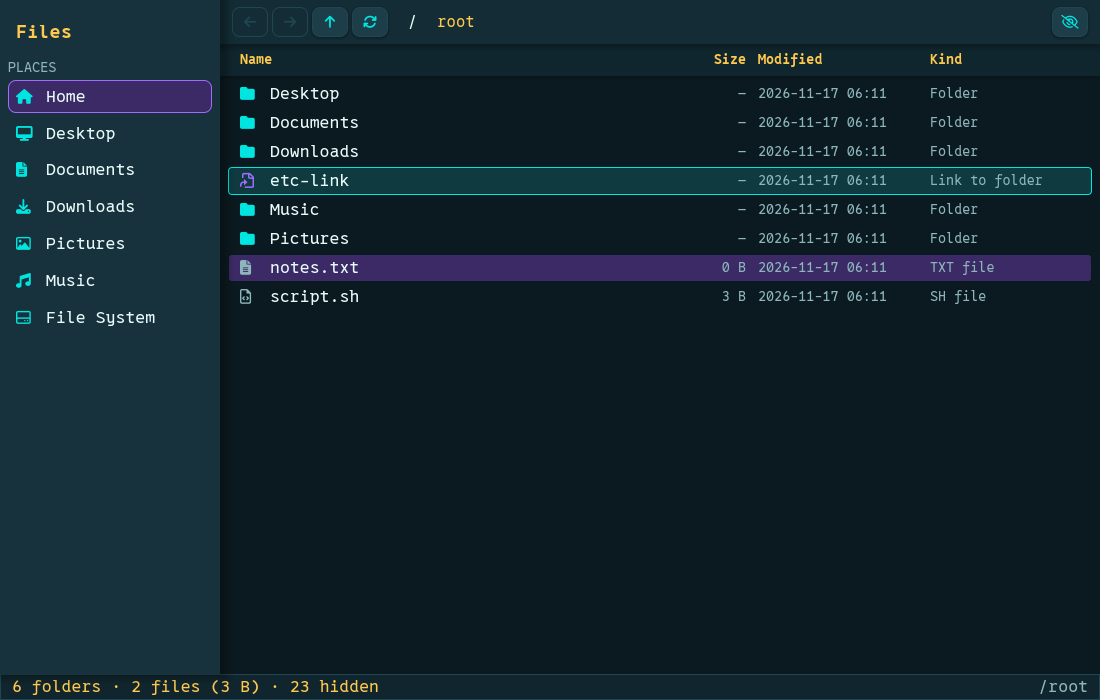
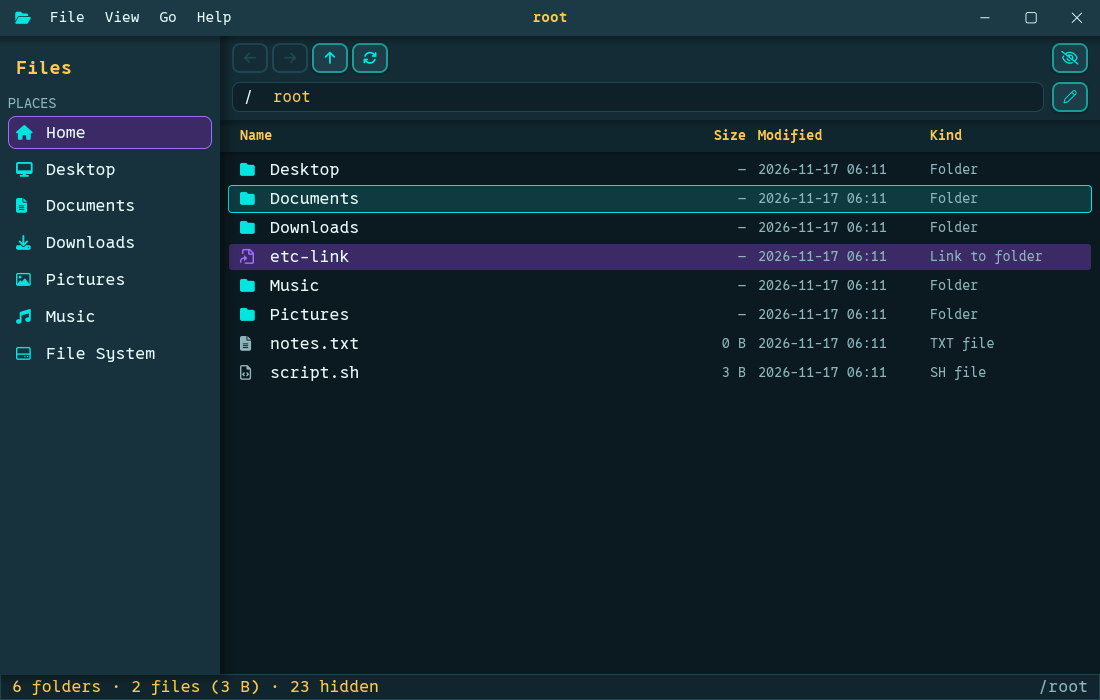
Custom window chrome, menus, location input, bordered buttons, styled iced tooltips
- All six apps: client-side title bar with File/View/Go/Help menus,
  minimise/maximise/close, drag/double-click/edge resize, About dialog
- Location row below the action buttons with typed-path navigation
  (~, relative, ..), Ctrl+L / Ctrl+Q / Alt+Home shortcuts
- 2px state-coloured tool-button borders
- iced tooltips styled like the other apps
- docs/CHROME.md comparing effort and pitfalls per stack; new screenshots

Claude-Session: https://claude.ai/code/session_01EotqUKJZL1HdZyLKc8DN6J

diff --git a/apps/rust-iced/src/app.rs b/apps/rust-iced/src/app.rs
@@ -78,7 +78,7 @@ impl App {
     pub fn view(&self) -> Element<'_, Message> {
         let mut layers = stack![
             column![space().height(layout::TITLE_BAR_HEIGHT), self.browser.view().map(Message::Browser)],
-            chrome::title_bar(&self.chrome, self.title()).map(Message::Chrome),
+            chrome::title_bar(&self.chrome, self.browser.title()).map(Message::Chrome),
         ];
         if let Some(menu) = chrome::menu_overlay(&self.chrome, self.browser.menu_state()) {
             layers = layers.push(menu.map(Message::Chrome));

diff --git a/docs/CHROME.md b/docs/CHROME.md
@@ -1,0 +1,121 @@
+# Window chrome, menus and text input: what it took in each stack
+
+This round added four things to all six apps:
+
+1. **2px tool-button borders**, coloured by state (`#1A9C98` normal, purple
+   hover, aqua pressed, dim disabled).
+2. **Client-side decorations (CSD)**: the system title bar is gone. Each app
+   draws its own title bar with **File / View / Go / Help** menus, the current
+   folder as title, and **minimise / maximise / close**. Drag the empty area to
+   move, double-click it to maximise, and grab any window edge to resize. Plus
+   an **About** dialog.
+3. **Location row**: the breadcrumbs moved under the action buttons, inside an
+   inset field. Click the field, press the pencil button or **Ctrl+L** to type a
+   path. `~`, relative paths and `..` work, **Enter** navigates and **Esc**
+   cancels.
+4. **iced tooltips** now render as styled bubbles (iced's default tooltip is
+   bare floating text; it needs `.style()`, `.padding()` and `.gap()`).
+
+New shortcuts everywhere: **Ctrl+L** open location, **Ctrl+Q** quit,
+**Alt+Home** home. Menus, tokens and path resolution are shared in spirit:
+`DirectoryPath::resolve_user_input` exists in each core with the same test
+cases.
+
+![Menus side by side](screenshots/menus.png)
+![Typing a path](screenshots/location-input.png)
+
+## How each stack did it
+
+| | Window move / resize | Menus | Text input | Code touched* |
+|---|---|---|---|---|
+| **Flutter** | GTK runner: `gtk_window_set_decorated(FALSE)` plus a ~100-line native method channel (`gtk_window_begin_move_drag` / `begin_resize_drag`) | ✅ built in: `MenuBar`, `SubmenuButton`, `MenuItemButton`, `CheckboxMenuButton`, with shortcut labels | ✅ `TextField` | +897 −45 Dart (inflated by `dart format`), +102 C |
+| **iced** | ✅ `.decorations(false)` + `window::drag`, `drag_resize`, `toggle_maximize` tasks (winit → compositor) | ❌ hand-built: `stack!` + `pin` + `opaque` overlay, with a click-catcher to close | ✅ `text_input` (+ `operation::focus` / `select_all`) | +735 −55 |
+| **Dear ImGui** | ⚠ GLFW can't hand a move/resize to the WM, so it's manual (position/size from pointer deltas) | ✅ built in: `BeginMenuBar`, `BeginMenu`, `MenuItem` (shortcut text, checkmarks) | ✅ `InputText` + `imgui_stdlib` | +704 −37 |
+| **egui** | ✅ `with_decorations(false)` + `ViewportCommand::StartDrag` / `BeginResize` (winit → compositor) | ✅ built in: `MenuBar`, `menu_button`, `Button::shortcut_text`, `Modal` | ✅ `TextEdit` | +503 −67 (the smallest) |
+| **Slint** | ✅ `no-frame: true` + Slint's window API; move/resize via the `unstable-winit-030` accessor (`drag_window`, `drag_resize_window`) | ⚠ `PopupWindow` + a data model (`[MenuEntry]`) | ✅ `TextInput` | +640 −57 |
+| **Zig + Clay** | ⚠ manual, like ImGui (raylib sits on GLFW), plus raw GLFW calls | ❌ hand-built: Clay floating elements, hover/click logic, outside-click closing | ❌ **hand-written**: `TextField.zig` (UTF-8 caret, select-all, backspace/delete, arrows, Home/End, paste, unit-tested); the caret is placed with the renderer's font metrics | +950 −34 |
+
+\* `git diff --numstat` for this round, app code only. The Rust apps also
+share +175 lines in `fm-core` / `fm-ui-kit` (menu model, tokens, path
+resolution).
+
+### Pitfalls found along the way
+
+- **Flutter**:
+  - `window_manager` 0.7 now depends on an external C++ library fetched at
+    build time, so a small native channel in the runner was the leaner
+    choice.
+  - Shortcuts closest to focus win: our screen-level Backspace / arrows /
+    Enter bindings would have stolen keys from the `TextField`. Disabling
+    those actions while typing lets the keys fall through.
+  - `MenuStyle.minimumSize` from the theme only applies to the menu bar;
+    dropdown items need their own width.
+- **iced**:
+  - There is no menu widget, so menus are overlays positioned with `pin`
+    (0xProto being monospaced makes the dropdown x-offsets computable).
+  - The modal backdrop must be `opaque`, or widgets underneath keep
+    receiving hover and their tooltips show through the dialog.
+  - `keyboard::listen` only reports unhandled keys. That's perfect for not
+    triggering shortcuts while typing, but Escape inside the text input
+    needed `event::listen_with`.
+- **Dear ImGui**:
+  - Dropdowns inherit the style active when they open (zero padding leaked
+    in).
+  - Shortcut hints use `TextDisabled`.
+  - With keyboard nav off, Escape doesn't close menus without
+    `ClosePopupsExceptModals` (internal API).
+  - In 1.92.8, `AddRect`'s `thickness`/`flags` parameters swapped order.
+- **egui**:
+  - `consume_key` runs before widgets, so shortcuts must skip keys that
+    `TextEdit` needs while typing.
+  - `scope_builder` advances the parent cursor but `new_child` doesn't,
+    which matters for overlaying crumbs on a clickable field.
+- **Slint**:
+  - **After `drag_window()` the window manager swallows the button release**,
+    so Slint's pressed `TouchArea` kept its pointer grab and every later
+    click started another drag. The fix is a *deferred* (next event-loop
+    turn) synthetic `PointerReleased` + `PointerExited`.
+  - `@children` can't be forwarded into a `PopupWindow`, hence data-driven
+    menus.
+  - Text clips Nerd Font glyphs again on the window controls.
+- **Zig + Clay**:
+  - Everything a toolkit normally provides had to be written:
+    - menu open/close/hover-switch logic
+    - outside-click handling
+    - modal backdrop
+    - the text field and its blinking caret
+  - raylib caches window-relative pointer coordinates, so a manual window
+    move overshot and compounded; the fix queries the embedded GLFW directly.
+  - There is still no IME/composition, no click-to-place caret and no
+    drag-to-select.
+
+### What this means for a desktop shell on sway
+
+- **Interactive move/resize must be compositor-driven on Wayland**
+  (`xdg_toplevel.move` / `.resize`). Clients can't position their own
+  windows there.
+  - winit (iced, egui, Slint) and GTK (Flutter) do this, so their CSD works on
+    sway.
+  - The manual approach used by **Dear ImGui and Zig/raylib only works on
+    X11**. GLFW has no API for a compositor-driven move, so on Wayland those
+    two would need their own Wayland client code.
+- **In a tiling compositor, CSD title bars mostly matter for floating
+  windows.** For tiled windows you'd likely want server-side decorations via
+  `xdg-decoration`, or none, with menus living elsewhere. Worth deciding at
+  the DE level before investing heavily in per-app title bars.
+- **Built-in widgets matter more than raw rendering here.**
+  - Menus, modal dialogs and text input were free in Flutter, egui and Dear
+    ImGui, mostly free in Slint, partly hand-built in iced, and entirely
+    hand-built in Clay.
+  - Text input is the expensive one: a production text field also needs
+    IME, selection, clipboard, undo and accessibility. A toolkit that ships
+    one saves the most.
+
+## Verifying it
+
+The window operations were checked under the Openbox window manager
+(Xvfb has none, and move/maximise/resize are requests *to* a window manager).
+All six passed the same scripted sequence: drag the title bar, maximise,
+restore, resize from the bottom-right corner, close with ✕. The menus, a
+tooltip, typing `~/Documents` + Enter, and the About dialog were exercised in
+each app.

diff --git a/README.md b/README.md
@@ -29,6 +29,7 @@ filemanage/
 ├── docs/
 │   ├── ARCHITECTURE.md       shared feature scope, layers, MVVM-per-paradigm, palette roles
 │   ├── ELEVATION.md          depth/elevation change: cost and approach per stack
+│   ├── CHROME.md             custom title bar, menus, location input: cost and pitfalls per stack
 │   └── screenshots/
 ├── libs/rust/
 │   ├── fm-core/              shared Rust domain + use cases + filesystem adapters
@@ -42,7 +43,10 @@ filemanage/
 Every app has its own README with its folder structure and stack-specific
 notes. [docs/ARCHITECTURE.md](docs/ARCHITECTURE.md) explains the shared design.
 [docs/ELEVATION.md](docs/ELEVATION.md) compares what it took to add depth
-(elevation, shadows) to each stack.
+(elevation, shadows) to each stack. [docs/CHROME.md](docs/CHROME.md) compares
+client-side decorations (custom title bar, menus, window controls), the
+editable location bar and text input, including what each approach means on
+Wayland/sway.
 
 ## Build & run
 
@@ -62,8 +66,8 @@ Rust apps on X11/Wayland also need the usual `libxkbcommon-x11-0` /
 
 | App | Lint / format | Tests |
 |---|---|---|
-| Rust (all) | `cargo clippy --workspace --all-targets` (pedantic, zero warnings), `cargo fmt` | `cargo test --workspace` → 22 tests (core, kit, iced update/keys, egui view model, Slint presenter) |
-| Flutter | `flutter analyze` (strict casts/inference + extra lints, zero issues), `dart format` | `flutter test` → 14 tests (domain, view model with fakes, widget) |
+| Rust (all) | `cargo clippy --workspace --all-targets` (pedantic, zero warnings), `cargo fmt` | `cargo test --workspace` → 23 tests (core, kit, iced update/keys, egui view model, Slint presenter) |
+| Flutter | `flutter analyze` (strict casts/inference + extra lints, zero issues), `dart format` | `flutter test` → 15 tests (domain, view model with fakes, widget) |
 | Dear ImGui | `-Wall -Wextra -Wpedantic -Wconversion … -Werror`, `.clang-format`, `.clang-tidy` | `ctest --preset debug` (doctest: domain, use case, fs adapter) |
 | Zig | `zig fmt` | `zig build test` → 12 tests (domain, use case, fs adapter, formatters) |
 
@@ -142,7 +146,7 @@ especially if you want Rust plus a declarative UI.
 not a toolkit: tooltips, double-click detection, hover cursors, scroll
 virtualisation and the glyph atlas were all hand-built. It's very fast, with
 small binaries and explicit memory (arenas per frame and per listing). But
-there are no text inputs or accessibility, raylib bakes a fixed glyph set
+there is no accessibility, text input had to be hand-written (`TextField.zig`), raylib bakes a fixed glyph set
 (non-Latin file names don't render), and Zig 0.16/0.17 API churn (`std.Io`,
 package manager) adds friction. Interesting technology; not yet practical for
 end-user apps.

diff --git a/docs/ARCHITECTURE.md b/docs/ARCHITECTURE.md
@@ -16,10 +16,13 @@ differences you notice come from the toolkit, not from the design.
 | Keyboard selection | <kbd>↑</kbd>/<kbd>↓</kbd> move the selection and scroll it into view |
 | Errors | Unreadable folders show a dismissible banner; your location stays the same |
 | Status bar | Folder/file counts, total size, hidden count, current path / loading state |
+| Custom title bar | Client-side decorations: File / View / Go / Help menus, centred folder name, minimise / maximise / close, drag to move, double-click to maximise, resize from any edge, About dialog |
+| Location input | Click the breadcrumb field, the pencil, or <kbd>Ctrl</kbd>+<kbd>L</kbd> to type a path (`~`, relative and `..` resolved); <kbd>Enter</kbd> navigates, <kbd>Esc</kbd> cancels |
 
 Shortcuts: <kbd>Alt</kbd>+<kbd>←</kbd> back, <kbd>Alt</kbd>+<kbd>→</kbd> forward,
 <kbd>Alt</kbd>+<kbd>↑</kbd> or <kbd>Backspace</kbd> up, <kbd>F5</kbd> refresh,
-<kbd>Esc</kbd> dismiss error.
+<kbd>Esc</kbd> cancel typing / close menu / dismiss error, <kbd>Ctrl</kbd>+<kbd>L</kbd>
+open location, <kbd>Alt</kbd>+<kbd>Home</kbd> home, <kbd>Ctrl</kbd>+<kbd>Q</kbd> quit.
 
 Opening files, file operations, search and sorting are out of scope for this draft.
 
